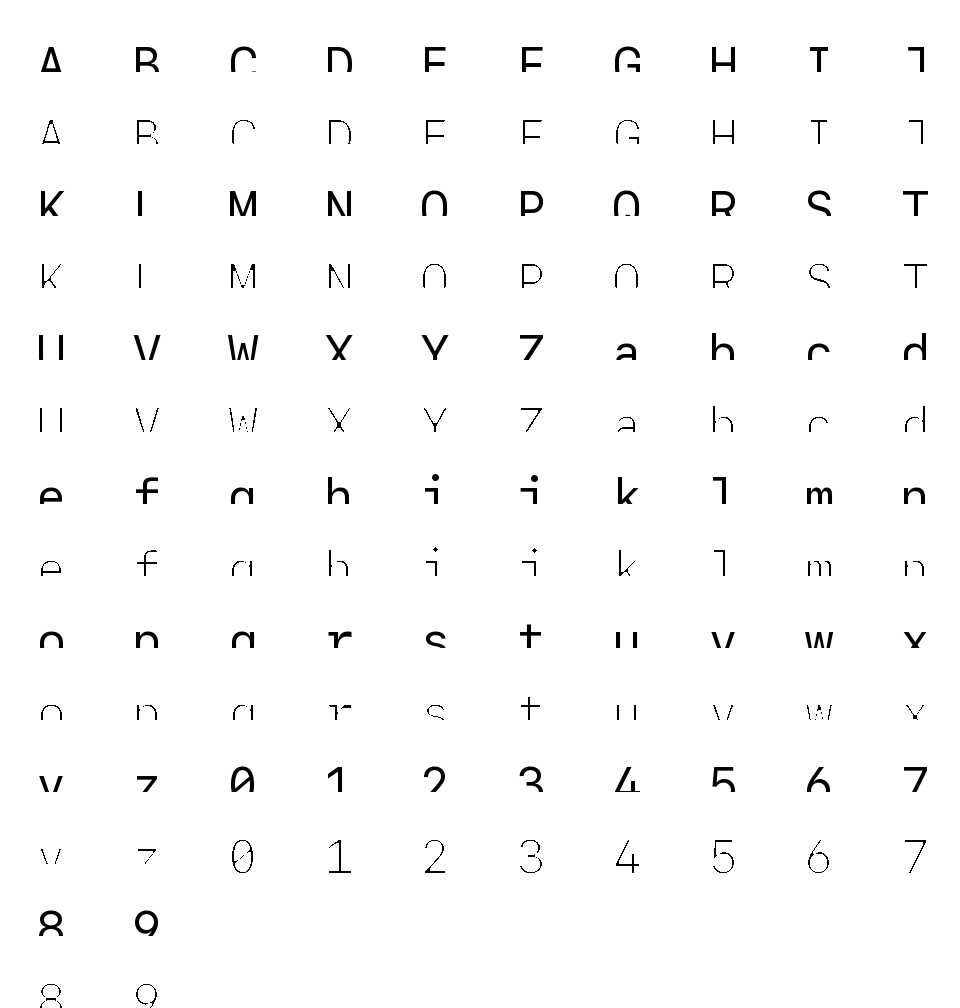
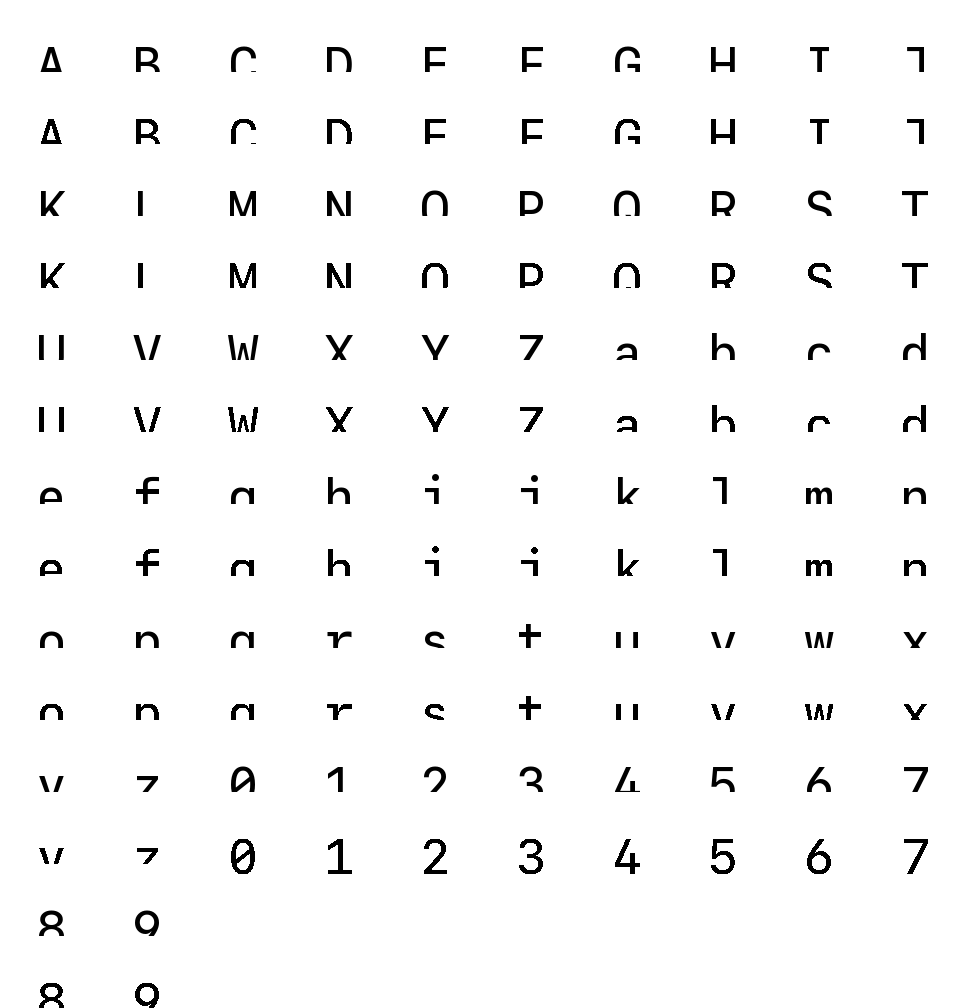
fix: 调整字体间距和默认字体文件路径
- 将JetBrains Mono风格的字间距从1.1调整为1.05以获得更好的视觉效果
- 将默认字体文件路径从Regular变体改为Medium变体以保持一致性

diff --git a/index.py b/index.py
@@ -44,7 +44,7 @@ class FontRendererAdjuster:
         self.jetbrains_mono_style = {
             "weight_adjustment":     1.2,  # 字重调整：增强线条强度
             "sharpness_factor":      1.3,  # 清晰度：提高边缘锐利度
-            "spacing_adjustment":    1.1, # 字间距：优化字符间距离
+            "spacing_adjustment":    1.05, # 字间距：优化字符间距离
             "contrast_boost":        1.25, # 对比度：增强黑白色调差异
             "anti_aliasing_level":   3     # 抗锯齿：平滑字体边缘
         }
@@ -561,8 +561,8 @@ def main():
     script_dir = Path(__file__).parent
     
     # 项目中字体文件的默认路径
-    default_sf_mono = script_dir / "fonts" / "SFMonoLigaturized-Regular.ttf"
-    default_jetbrains_mono = script_dir / "fonts" / "JetBrainsMono-Regular.ttf"
+    default_sf_mono = script_dir / "fonts" / "SFMonoLigaturized-Medium.ttf"
+    default_jetbrains_mono = script_dir / "fonts" / "JetBrainsMono-Medium.ttf"
     
     parser = argparse.ArgumentParser(description="将SF Mono字体的渲染效果调整为与JetBrains Mono字体相似的风格")
     parser.add_argument("--sf-mono", 
@@ -605,7 +605,7 @@ def main():
         adjuster.render_comparison_with_jetbrains(output_path=str(output_dir / "jetbrains_comparison.png"))
     
     # 生成调整后的字体文件
-    adjusted_font_path = str(output_dir / "adjusted_SFMonoLigaturized-Regular.ttf")
+    adjusted_font_path = str(output_dir / "adjusted_SFMonoLigaturized-Medium.ttf")
     adjuster.generate_adjusted_font_file(output_path=adjusted_font_path)
     
     # 渲染代码片段示例
